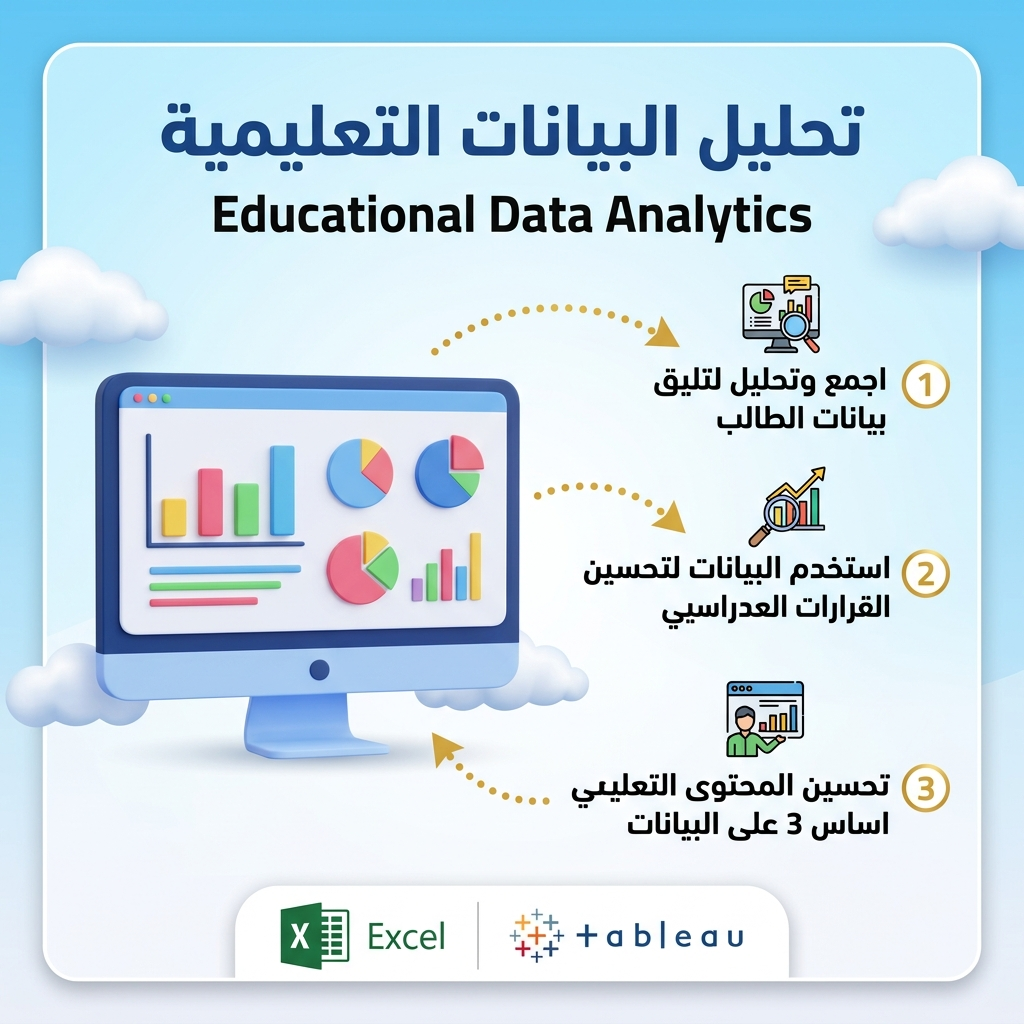
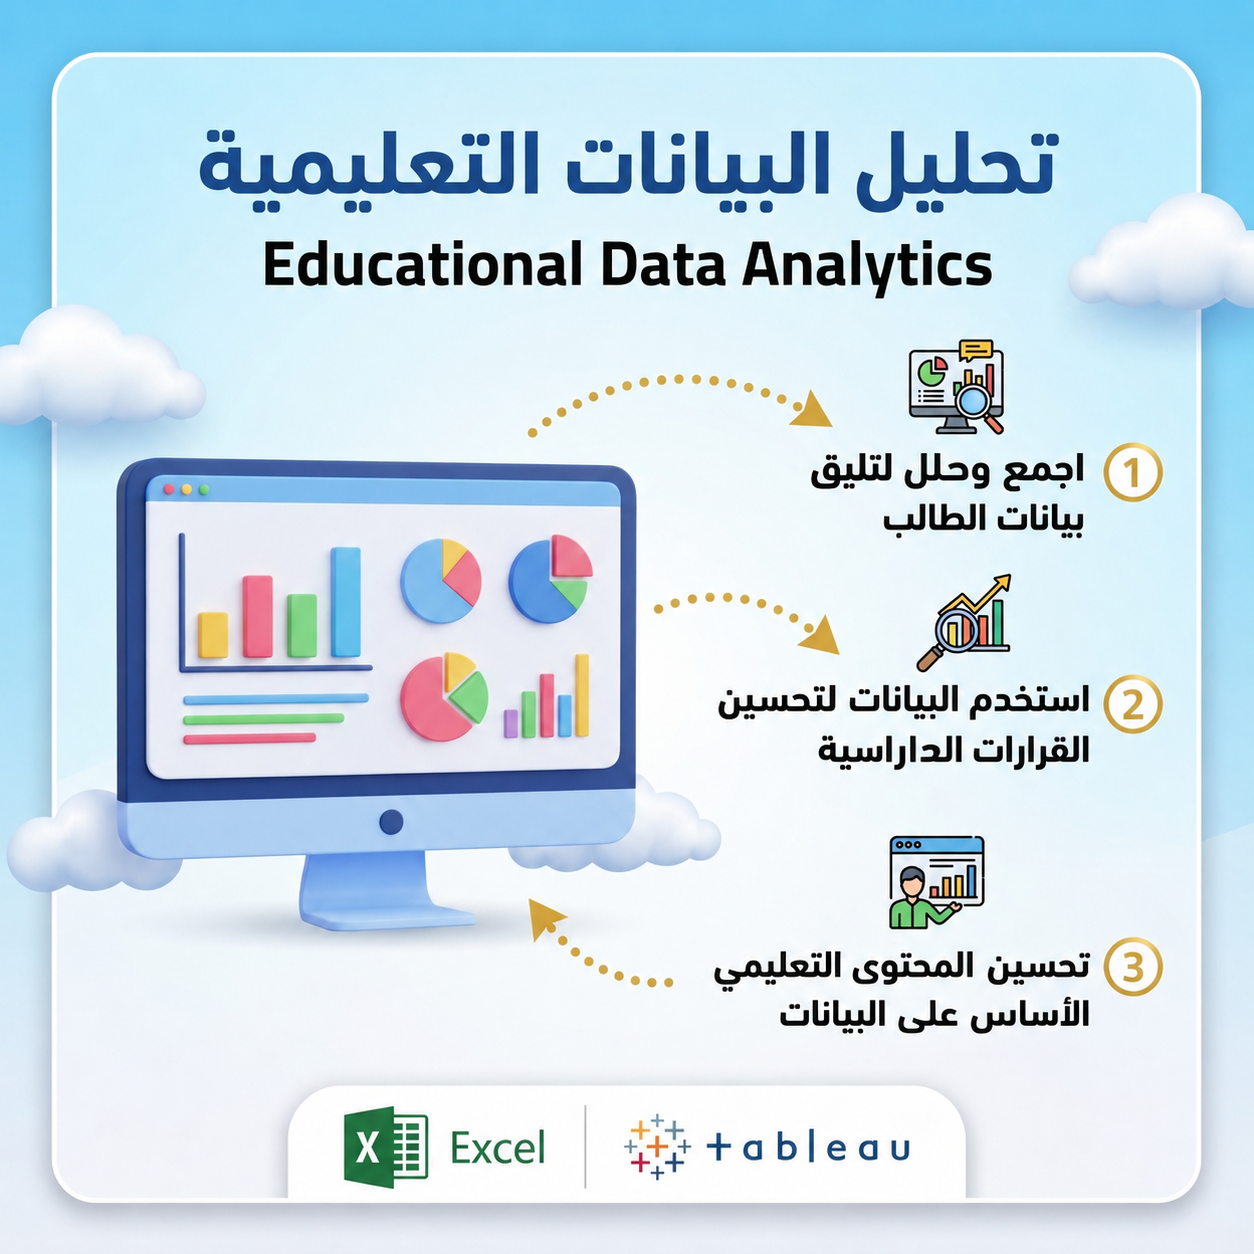
final-commit-inshallah-2-5

diff --git a/frontend/career-elearning.html b/frontend/career-elearning.html
@@ -822,17 +822,6 @@
       <div class="task-item">
         <div class="task-num">3</div>
         <div class="task-text">تحليل بيانات الأداء والتفاعل مع الطلاب لتحسين جودة التعلم</div>
-      <!-- <div class="task-item">
-        <div class="task-num">1</div>
-        <div class="task-text">إدارة وتنظيم الدورات التعليمية عبر الإنترنت</div>
-      </div>
-      <div class="task-item">
-        <div class="task-num">2</div>
-        <div class="task-text">استخدام منصات مثل Moodle، وEdmodo، وCanvas</div>
-      </div>
-      <div class="task-item">
-        <div class="task-num">3</div>
-        <div class="task-text">تحليل بيانات الأداء والتفاعل مع الطلاب لتحسين جودة التعلم</div> -->
       </div>
 
       <div class="tools-row">
@@ -848,9 +837,8 @@
       <div class="tools-row">
         <div class="tools-label">📚 مواد المسار</div>
         <div class="tools-chips">
-          <span class="tool-chip">إدارة وتنظيم الدورات التعليمية عبر الإنترنت</span>
-          <span class="tool-chip">استخدام منصات مثل Moodle، وEdmodo، وCanvas</span>
-          <span class="tool-chip">تحليل بيانات الأداء والتفاعل مع الطلاب لتحسين جودة التعلم</span>
+          <span class="tool-chip">أنظمة إدارة التعلم LMS  </span>
+          <span class="tool-chip">شبكات المعلومات والتعلم الإلكتروني</span>
         </div>
       </div>
     </div>

diff --git a/frontend/career-teaching.html b/frontend/career-teaching.html
@@ -832,10 +832,10 @@
       <div class="tools-row">
         <div class="tools-label">📚 مواد المسار</div>
         <div class="tools-chips">
-          <span class="tool-chip">دمج تكنلوجيا في المنهاج K-12</span>
+          <span class="tool-chip">دمج التكنلوجيا في المنهاج K-12</span>
           <span class="tool-chip">تصميم التدريس في بيئات التعلم</span>
           <span class="tool-chip">المناهج و طرق التدريس</span>
-          <span class="tool-chip">تكنلوجيا المعلومات و الاتصالات في التعليم</span>
+          <span class="tool-chip">التكنلوجيا المعلومات و الاتصالات في التعليم</span>
           <span class="tool-chip">مواد مرتبطة بالدمج التكنلوجيا في المنهاج</span>
         </div>
       </div>
@@ -844,7 +844,7 @@
   </div>
 
   <footer class="footer">
-    <span class="footer-copy">🤖 المرشد الذكي &copy; 2024 — جامعة الشرق الأوسط</span>
+    <span class="footer-copy">🤖 المرشد الذكي &copy; 2026 — جامعة الشرق الأوسط</span>
     <div class="footer-links">
       <span class="footer-link">سياسة الخصوصية</span>
       <span class="footer-link">الخطة الإرشادية</span>

diff --git a/frontend/career-ai.html b/frontend/career-ai.html
@@ -778,7 +778,7 @@
     </div>
 
     <div class="text-side">
-      <div class="career-tag">🤖 الذكاء الاصطناعي والروبوت التعليمي </div>
+      <div class="career-tag">🤖 الروبوت التعليمي </div>
       <h2 class="career-heading">Smart Learning &amp; AI</h2>
       <p class="career-en-name">رمز: روبوت مع بيانات</p>
 
@@ -797,7 +797,7 @@
       </div>
       <div class="task-item">
         <div class="task-num">2</div>
-        <div class="task-text">تصميم شات بوتات تعليمية</div>
+        <div class="task-text">تصميم شات بوت تعليمية</div>
       </div>
       <div class="task-item">
         <div class="task-num">3</div>
@@ -829,8 +829,6 @@
         <div class="tools-label">📚 مواد المسار</div>
         <div class="tools-chips">
           <span class="tool-chip">المواد المرتبطة بادارة الانظمة التعليمية و الذكاء الاصطناعي</span>
-          <span class="tool-chip">انظمة ادارة التعلم LMS</span>
-          <span class="tool-chip">شبكات المعلومات و التعلم الالكتروني</span>
         </div>
       </div>
     </div>

diff --git a/frontend/plan.html b/frontend/plan.html
@@ -856,7 +856,7 @@
             <div class="semester-label">🎓 الفصل الثاني — فصل التخرج</div>
             <ul>
               <li><span class="grad-badge">🏅 تخرج</span>مشروع التخرج <span style="color:rgba(255,213,79,0.7);font-size:11px;">(90 ساعة)</span></li>
-              <li><span class="grad-badge">🏅 تدريب</span>التدريب الميداني <span style="color:rgba(255,213,79,0.7);font-size:11px;">(120 ساعة)</span></li>
+              <li><span class="grad-badge">🏅 تدريب</span>التدريب الميداني <span style="color:rgba(255,213,79,0.7);font-size:11px;">(12 ساعة)</span></li>
             </ul>
           </div>
         </div>
@@ -868,7 +868,7 @@
 
   <!-- ========== FOOTER ========== -->
   <footer class="footer">
-    <span class="footer-copy">🤖 المرشد الذكي &copy; 2024 — جامعة الشرق الأوسط</span>
+    <span class="footer-copy">🤖 المرشد الذكي &copy; 2026 — جامعة الشرق الأوسط</span>
     <div class="footer-links">
       <span class="footer-link">سياسة الخصوصية</span>
       <span class="footer-link">الخطة الإرشادية</span>

diff --git a/frontend/tour.html b/frontend/tour.html
@@ -645,7 +645,7 @@
 
   <!-- ========== FOOTER ========== -->
   <footer class="footer">
-    <span class="footer-copy">🤖 المرشد الذكي &copy; 2024 — جامعة الشرق الأوسط</span>
+    <span class="footer-copy">🤖 المرشد الذكي &copy; 2026 — جامعة الشرق الأوسط</span>
     <div class="footer-links">
       <span class="footer-link">سياسة الخصوصية</span>
       <span class="footer-link">الخطة الإرشادية</span>

diff --git a/frontend/future.html b/frontend/future.html
@@ -658,7 +658,7 @@
       </div>
       <div class="fact-item">
         <span class="fact-icon">🏗</span>
-        <div class="fact-num">120</div>
+        <div class="fact-num">12</div>
         <div class="fact-label">ساعة تدريب<br>عدد ساعات التدريب الميداني</div>
       </div>
     </div>
